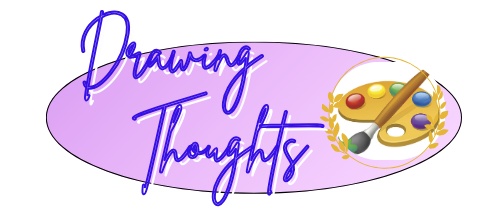
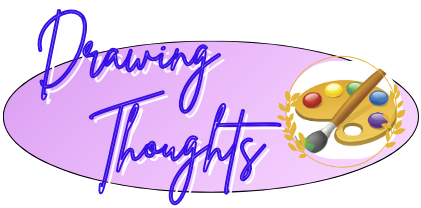
Correciones

diff --git a/style.css b/style.css
@@ -34,11 +34,12 @@ header{
 .nav-list{
   display: flex;
   list-style-type: none;
-  gap: 1rem;
+  gap: 2rem;
 }
 .nav-list li a{
   text-decoration: none;
   color:rgb(105 32 174);
+  font-size: 14.5pt;
 }
 .enlaces{
     display: none;
@@ -64,7 +65,7 @@ header{
 }
 
 .imagen {
-  width: 570px;
+  width: 595px;
   height: 300px;
   cursor: pointer;
 }
@@ -83,14 +84,22 @@ header{
   padding: 10px;
 }
 img.Logo{
-  height: 150px;
-  width: 400px;
+  height: 90px;
+  width: 410px;
 }
 nav.dos{
  display: flex;
  align-items:initial;
  list-style-type: none;
 } 
+.banner_button{
+  background-color: rgb(105 32 174);
+    color: #fff;
+    height: 105px;
+    width: 825px;
+    align-content: center;
+    margin: 30px;
+}
     .banner_image {
       padding: 0;
     }
@@ -117,44 +126,66 @@ img.banner_image{
   .texto_banner{
   font-size: 15pt;
   }
+  .imagen {
+    width: 384px;
+    height: 200px;
+    cursor: pointer;
+  }
 .abrir_menu, .cerrar_menu {
   display: block; 
   border: 0;
-  font-size: 1.25rem;
+  font-size: 2.35rem;
   cursor: pointer;
+  background-color: transparent;
 }
+
 .nav-list{
   align-items: end;
   flex-direction: column;
-  
+  color: #fff;
 }
+.nav-list li a{
+  text-decoration: none;
+  color:rgb(248, 247, 250);
+  font-size: 14.5pt;
+}
+
 .nav{
-  opacity: 0;
+ opacity: 0;
   visibility: hidden;
 
   display: flex;
   flex-direction: column;
-  background-color: #141414;
-  bottom: 0;
+  background-color: rgb(129 43 211);
+  bottom: 0px;
   position: absolute;
   top: 0;
   right: 0;
-  box-shadow: #e0c9c954;
   gap: 1rem;
   align-items: end;
+  width: 250px;
+  transition: all .3s;
+  z-index: 1;
 }
 .nav.visible {
   opacity: 1;
   visibility: visible;
 }
-.imagen {
-  width: 300px;
-  height: 180px;
-  cursor: pointer;
+.cerrar_menu{
+  color: #fff;
+}
+.banner_button{
+  width: 250px;
+  height: 30px;
+  margin: 0;
+}
+img.Logo{
+  height: 90px;
+  width: 375px;
 }
 img.banner_image{
-  max-height: 250px;
-  max-width: 190px;
+  max-height: 260px;
+  max-width: 220px;
   height: auto;
   width: auto;
 }

diff --git a/hola.html b/hola.html
@@ -11,9 +11,9 @@
     <script src="usuarios.js"></script>
 <header>
         <img class="Logo" src="C:\Users\ASUS I5\OneDrive\Documentos\JohanDavidMosquera\Proyecto\Tarea\Drawing Thoughts.png" alt="">
-        <button class="abrir_menu"><i class="bi bi-list"></i></button>
-        <nav class="nav">
-            <button class="cerrar_menu"><i class="bi bi-x-square"></i></button>
+        <button class="abrir_menu" id="Abrir"><i class="bi bi-list"></i></button>
+        <nav class="nav" id="Nav">
+            <button class="cerrar_menu" id="Cerrar"><i class="bi bi-x-square"></i></button>
             <ul class="nav-list">
                 <li><a href="#Nosotros">acerca de</a></li>
                 <li><a href="#Artistas">Artistas</a></li>
@@ -36,7 +36,8 @@
               </h2>
                 <p class="texto_banner">Nuestra pagina esta a la disposicion de todas las personas que
                   quieran mostrar su sin igual talento en el arte y darse a conocer, aqui
-                  podras vender o comprar obras de jovenes promesas, ¿que esperas para hacerlo?</p>
+                  podras vender o comprar obras de jovenes promesas, ¿que esperas para hacerlo?<br>
+                   <button class="banner_button">¡compra ya!</button></p>
         </li>
         </nav>
     </div>

diff --git a/usuarios.js b/usuarios.js
@@ -1,27 +1,23 @@
 let indice = 0;
-
     function cambiarImagen(direccion) {
         const imagenes = document.querySelector('.imagenes');
         const totalImagenes = document.querySelectorAll('.imagen').length;
         indice += direccion;
-
         if (indice < 0) {
             indice = totalImagenes - 1;
         } else if (indice >= totalImagenes) {
             indice = 0;
         }
-
         const desplazamiento = -indice * 100;
         imagenes.style.transform = `translateX(${desplazamiento}%)`;
     }
-
-const nav = document.querySelector('.nav');
-const abrir = document.querySelector('.abrir_menu');
-const cerrar = document.querySelector('.cerrar_menu');
+const nav = document.querySelector("#Nav");
+const abrir = document.querySelector("#Abrir");
+const cerrar = document.querySelector("#Cerrar");
 
 abrir.addEventListener("click", () => {
-    nav.classList.add("visible");
+    nav.classList.add(" visible");
 })
 cerrar.addEventListener("click", () => {
-    nav.classList.remove("visible");
+    nav.classList.remove(" visible");
 })
